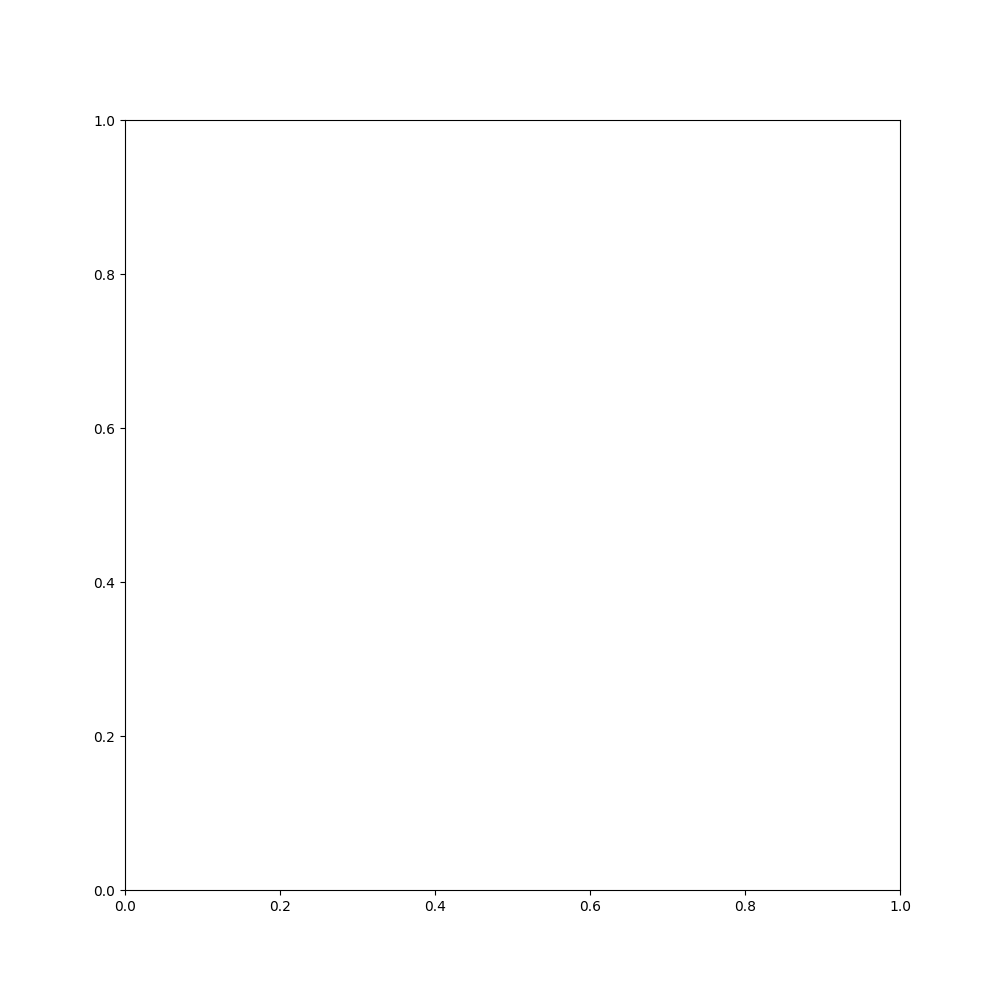
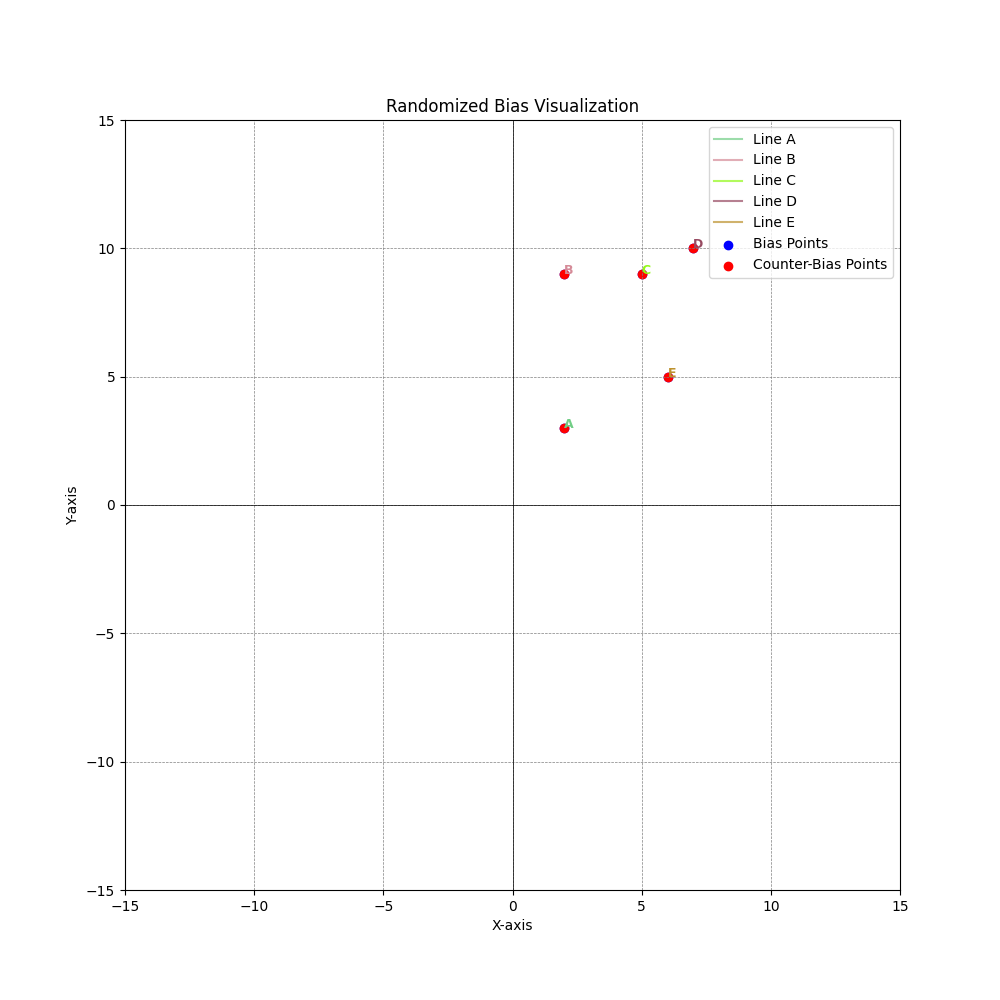
javascript code made / Lines not appearing at all searching for the bug

diff --git a/Python/script.py b/Python/script.py
@@ -1,45 +1,50 @@
-#// Using Jupyter for viewing compilator for Java
-import matplotlib.pyplot as plt 
+import matplotlib.pyplot as plt
 import numpy as np
-import random,string
+import random, string
 
-#// Bias generate random points
-def genpoints(num_points=4, limit=10):
-    points= [(random.randint(1, limit), random.randint(1, limit)) for i in range (num_points)]
+# Generate random bias points
+def generate_random_points(num_points=4, limit=10):
+    points = [(random.randint(1, limit), random.randint(1, limit)) for _ in range(num_points)]
     return points
 
-#// Num bias-counterb pairs (from 4-20 seems ok )
-num_pairs = random.randint (4, 20)
+# Number of bias-counterbias pairs (random between 4 and 26)
+num_pairs = random.randint(4, 26)
 
-#// Random Bias Points call
-bias_points = genpoints(num_pairs)
+#Generate random bias points
+bias_points = generate_random_points(num_pairs)
 
-#//Unpack the list (x and y)
+#// Extract bias and counter-bias points
 bias_x, bias_y = zip(*bias_points)
 counter_bias_x = [x for x in bias_x]
 counter_bias_y = [y for y in bias_y]
 
-#// Plotting the info in diagram
+#// Plot the diagram
 plt.figure(figsize=(10, 10))
-plt.axhline(0, color="Black", linewidth = 0.5)
-plt.axvline(0, color="Black", linewidth = 0.5)
+plt.axhline(0, color='black', linewidth=0.5)  # Horizontal axis
+plt.axvline(0, color='black', linewidth=0.5)  # Vertical axis
 
-#// Grid to make it look nice and clear
-plt.grid(color= "gray", linestyle = "--", linewidth = 0.5)
+#// Add grid
+plt.grid(color='gray', linestyle='--', linewidth=0.5)
 
-#//Plot BIAS red and blue  (CounterB and Bias)
-plt.scatter(counter_bias_x, counter_bias_y, color = "blue", label = "Bias Point")
-plt.scatter(bias_x, bias_y, color = "red", label = "Counter Bias Points")
+#// Plot lines connecting biases to counter-biases with labels
+for i, (x, y, cx, cy) in enumerate(zip(bias_x, bias_y, counter_bias_x, counter_bias_y)):
+    label = string.ascii_uppercase[i] if i < 26 else f"A{i}"  # Generate labels
+    color = [random.random() for _ in range(3)]  # Random color
+    plt.plot([x, cx], [y, cy], linestyle='-', color=color, alpha=0.7, label=f"Line {label}")
+    plt.text((x + cx) / 2, (y + cy) / 2, label, color=color, fontsize=9, fontweight='bold')
 
-#// Set Axis Limits and the Labels
+#// Plot bias and counter-bias points
+plt.scatter(bias_x, bias_y, color='blue', label='Bias Points')
+plt.scatter(counter_bias_x, counter_bias_y, color='red', label='Counter-Bias Points')
+
+#//Set axis limits and labels
 plt.xlim(-15, 15)
 plt.ylim(-15, 15)
-plt.xlabel("X--Axis")
-plt.ylabel("Y--Axis")
-plt.title("Bias and Counter Bias Points Random")
-plt.legend
+plt.xlabel("X-axis")
+plt.ylabel("Y-axis")
+plt.title("Randomized Bias Visualization")
+plt.legend()
 
-
-#// Make a png to show BIAS Visualisation in a picture 
-plt.savefig("bias_visual.png")
+#// Make a png to show the BIAS Visualisation as an image file
+plt.savefig("bias_pics/bias_visual.png")
 plt.show()
